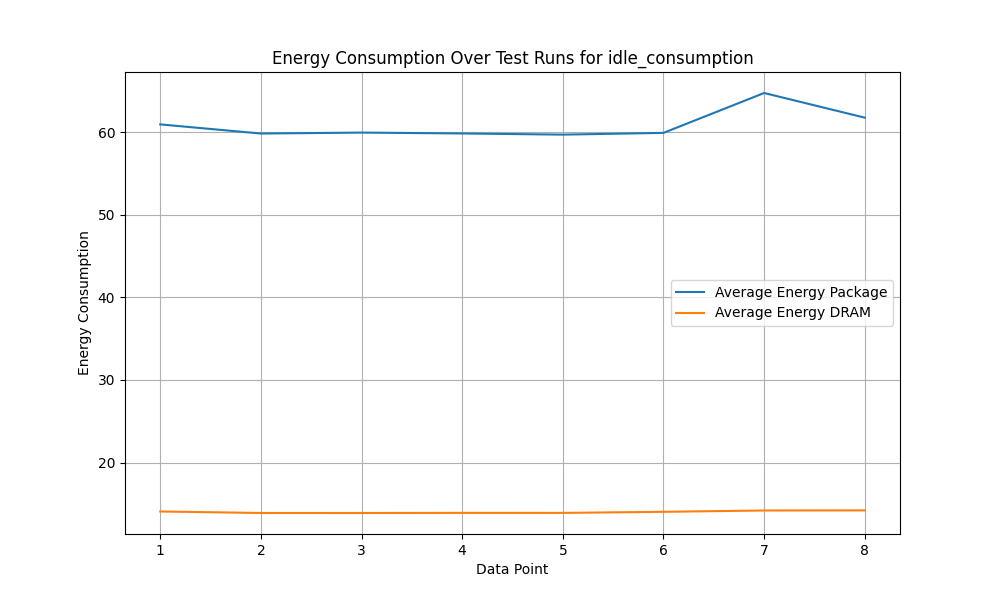
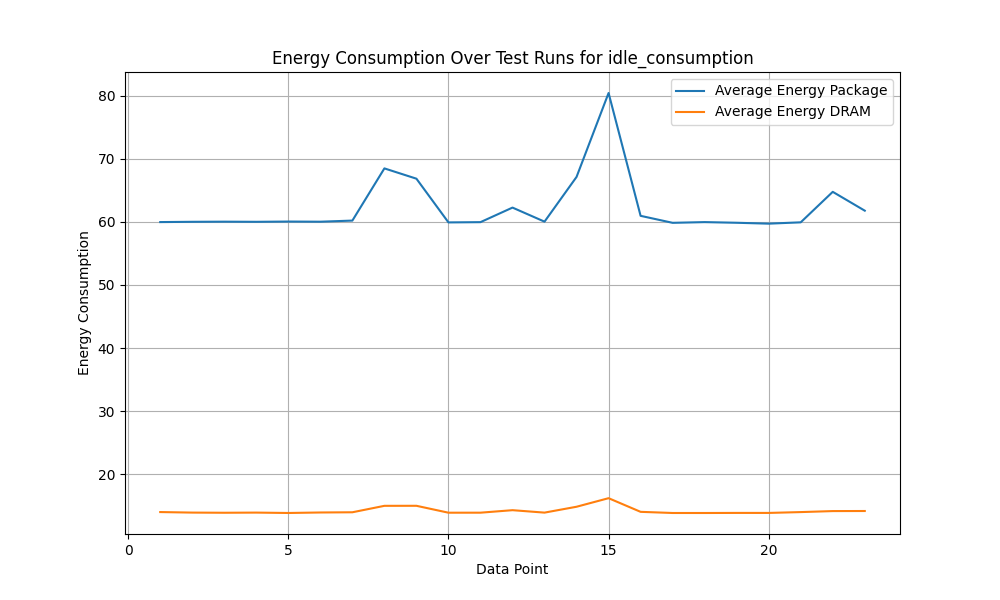
new idle consumption plot

diff --git a/CpuIntensiveApp/Plot-Data/plot_results_4_test.py b/CpuIntensiveApp/Plot-Data/plot_results_4_test.py
@@ -23,7 +23,7 @@ client = InfluxDBClient(url=url, token=token, org=org)
 # Define the Flux query, filtering by the test name
 query = f'''
 from(bucket: "{bucket}")
-  |> range(start: -30m)
+  |> range(start: -300m)
   |> filter(fn: (r) => r._measurement == "unit_test_energy" and r.test_name == "{test_name}")
   |> pivot(rowKey:["_time"], columnKey: ["_field"], valueColumn: "_value")
   |> sort(columns: ["_time"])
